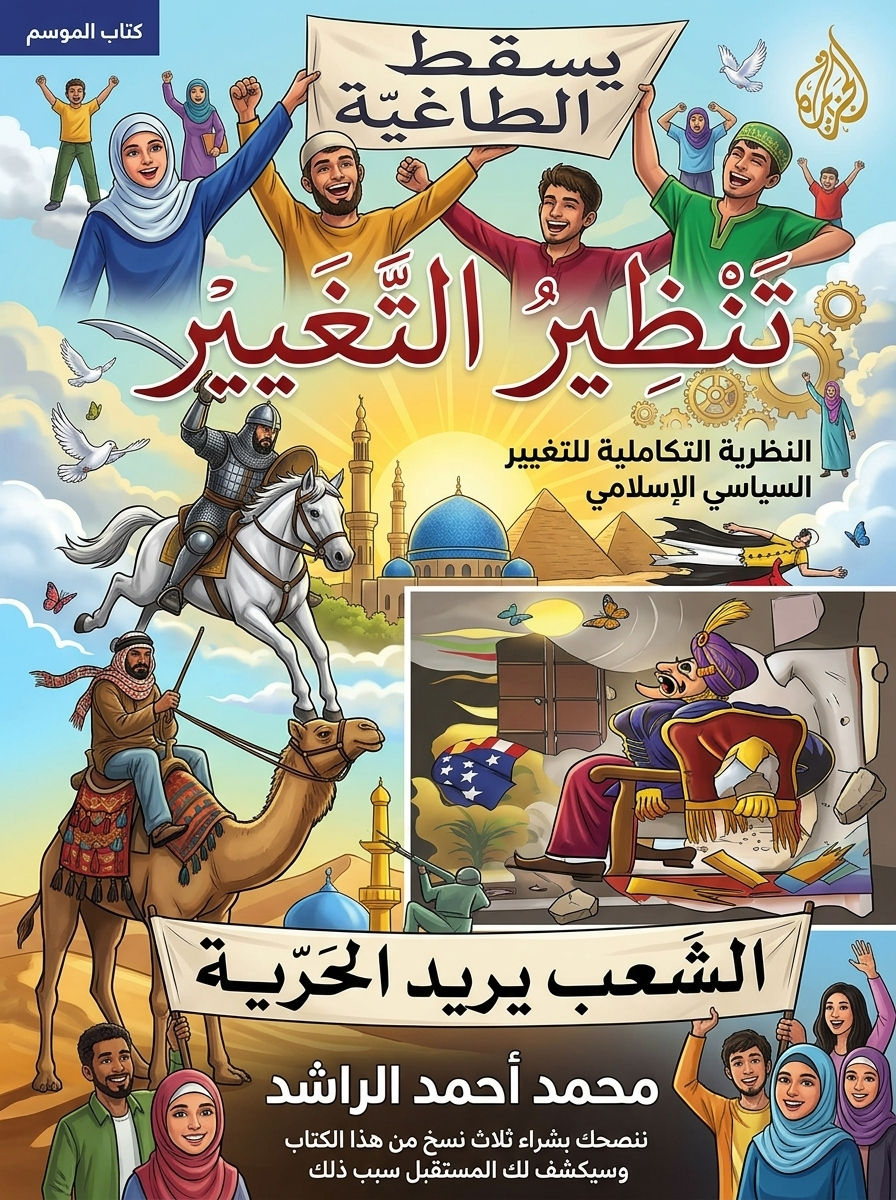
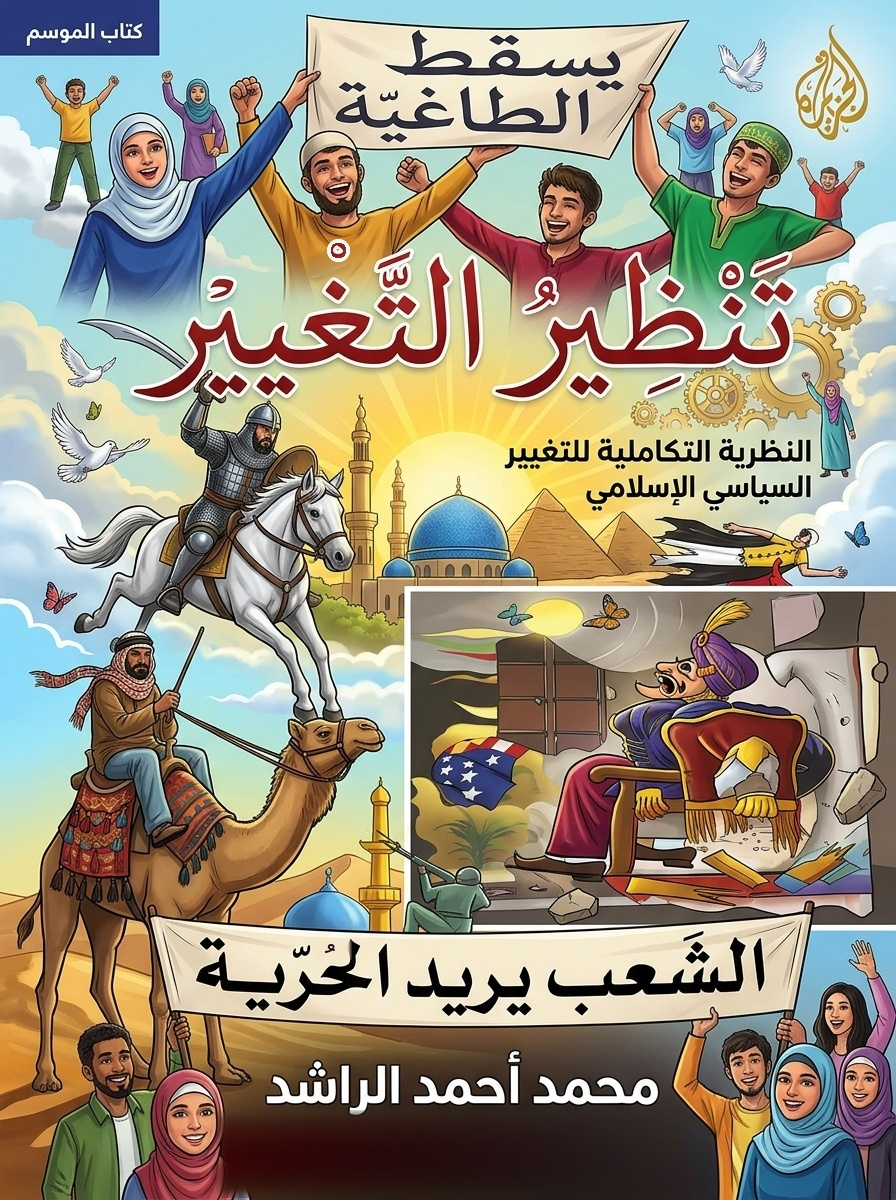
fix(cover): betulkan syakl al-Taghyir (sukun) & al-Hurriyyah (dhammah), padam teks promosi bawah

Changed region(s): [[0.2188, 0.925, 0.7188, 1.0], [0.3438, 0.185, 0.4062, 0.2467]]

diff --git a/index.html b/index.html
@@ -26,7 +26,7 @@
   <link rel="icon" type="image/jpeg" href="./images/cover_revitalized_vibrant_tanzir.jpg">
   <link rel="apple-touch-icon" href="./images/cover_revitalized_vibrant_tanzir.jpg">
   <link rel="manifest" href="./manifest.json">
-  <link rel="stylesheet" href="./css/style.css?v=v393_sumbangan_sub10_footnote_imarah">
+  <link rel="stylesheet" href="./css/style.css?v=v394_cover_syakl_and_cleanup">
 
   <!-- Google Fonts: Premium Manuscript Typography -->
   <link rel="preconnect" href="https://fonts.googleapis.com">
@@ -703,8 +703,8 @@ window.togglePeradabanModal = function(show) {
 
   <!-- Data Scripts (Offline Direct Access) -->
   <script src="./data/tanzir_quotes.js?v=20261121_v377_mukadimah_rumi_quote_ltr"></script>
-  <script src="./data/tanzir_data.js?v=v393_sumbangan_sub10_footnote_imarah"></script>
+  <script src="./data/tanzir_data.js?v=v394_cover_syakl_and_cleanup"></script>
   <!-- Application Core Script -->
-  <script src="./js/app.js?v=v393_sumbangan_sub10_footnote_imarah"></script>
+  <script src="./js/app.js?v=v394_cover_syakl_and_cleanup"></script>
 </body>
 </html>

diff --git a/sw.js b/sw.js
@@ -1,11 +1,11 @@
-const CACHE_NAME = 'v393_sumbangan_sub10_footnote_imarah';
+const CACHE_NAME = 'v394_cover_syakl_and_cleanup';
 const ASSETS_TO_CACHE = [
   './',
   './index.html?v=20261121_v370_epilog_penghormatan',
   './manifest.json',
-  './css/style.css?v=v393_sumbangan_sub10_footnote_imarah',
-  './js/app.js?v=v393_sumbangan_sub10_footnote_imarah',
-  './data/tanzir_data.js?v=v393_sumbangan_sub10_footnote_imarah',
+  './css/style.css?v=v394_cover_syakl_and_cleanup',
+  './js/app.js?v=v394_cover_syakl_and_cleanup',
+  './data/tanzir_data.js?v=v394_cover_syakl_and_cleanup',
   './data/tanzir_quotes.js?v=20261121_v370_epilog_penghormatan',
   './icons/favicon.png',
   './icons/icon-192.png',
